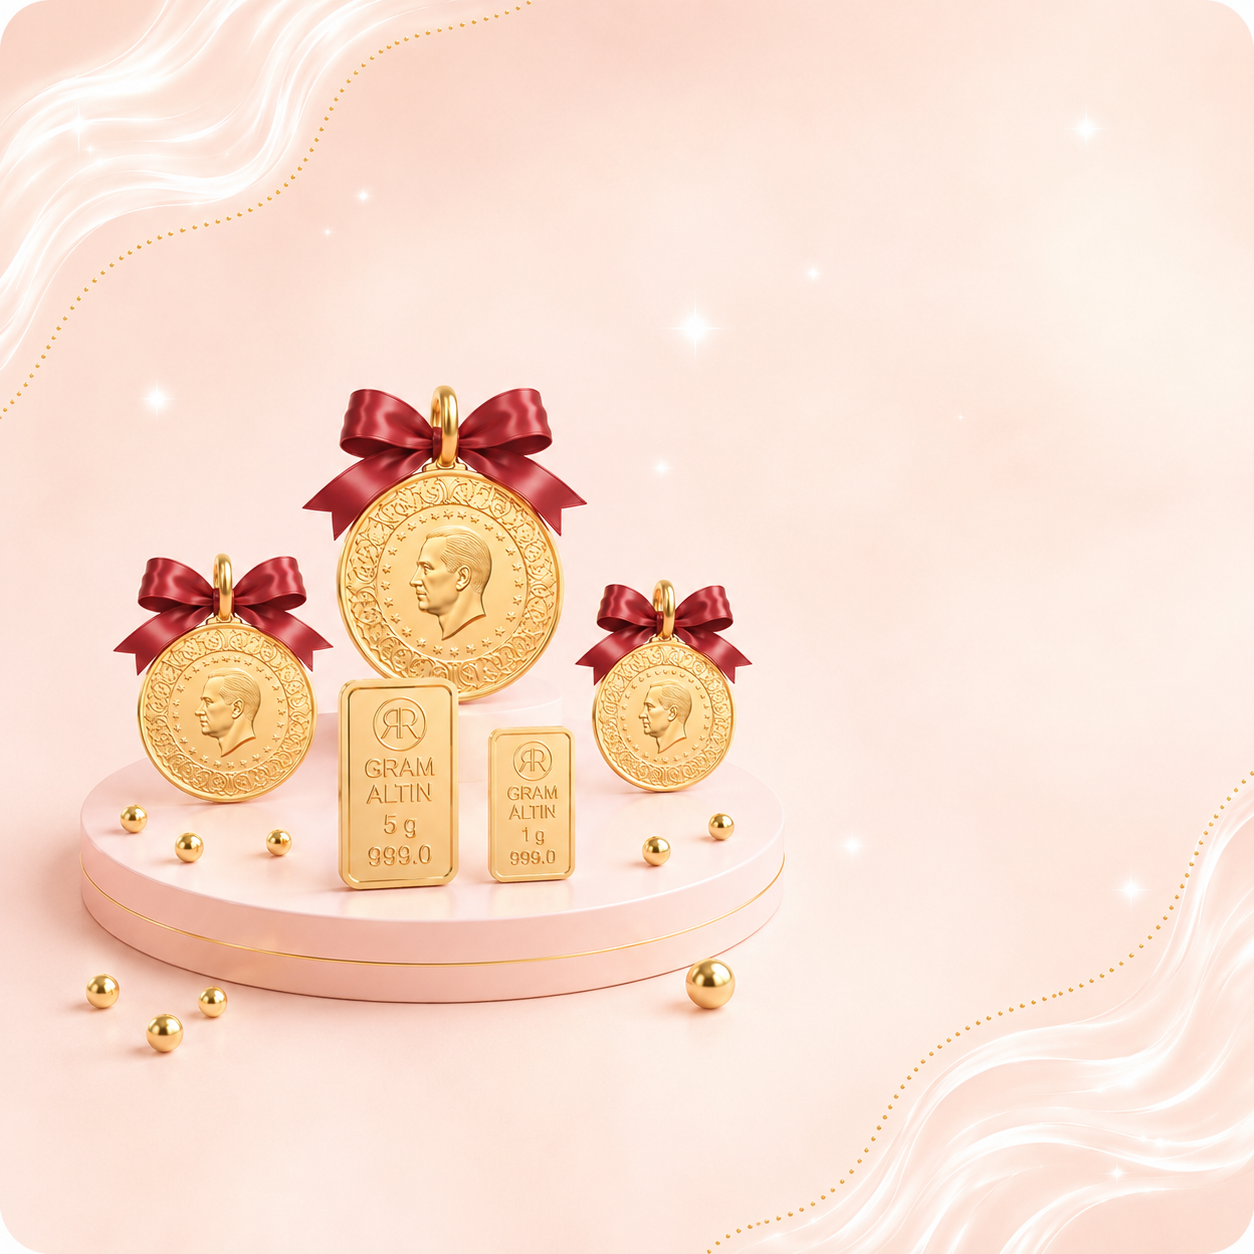
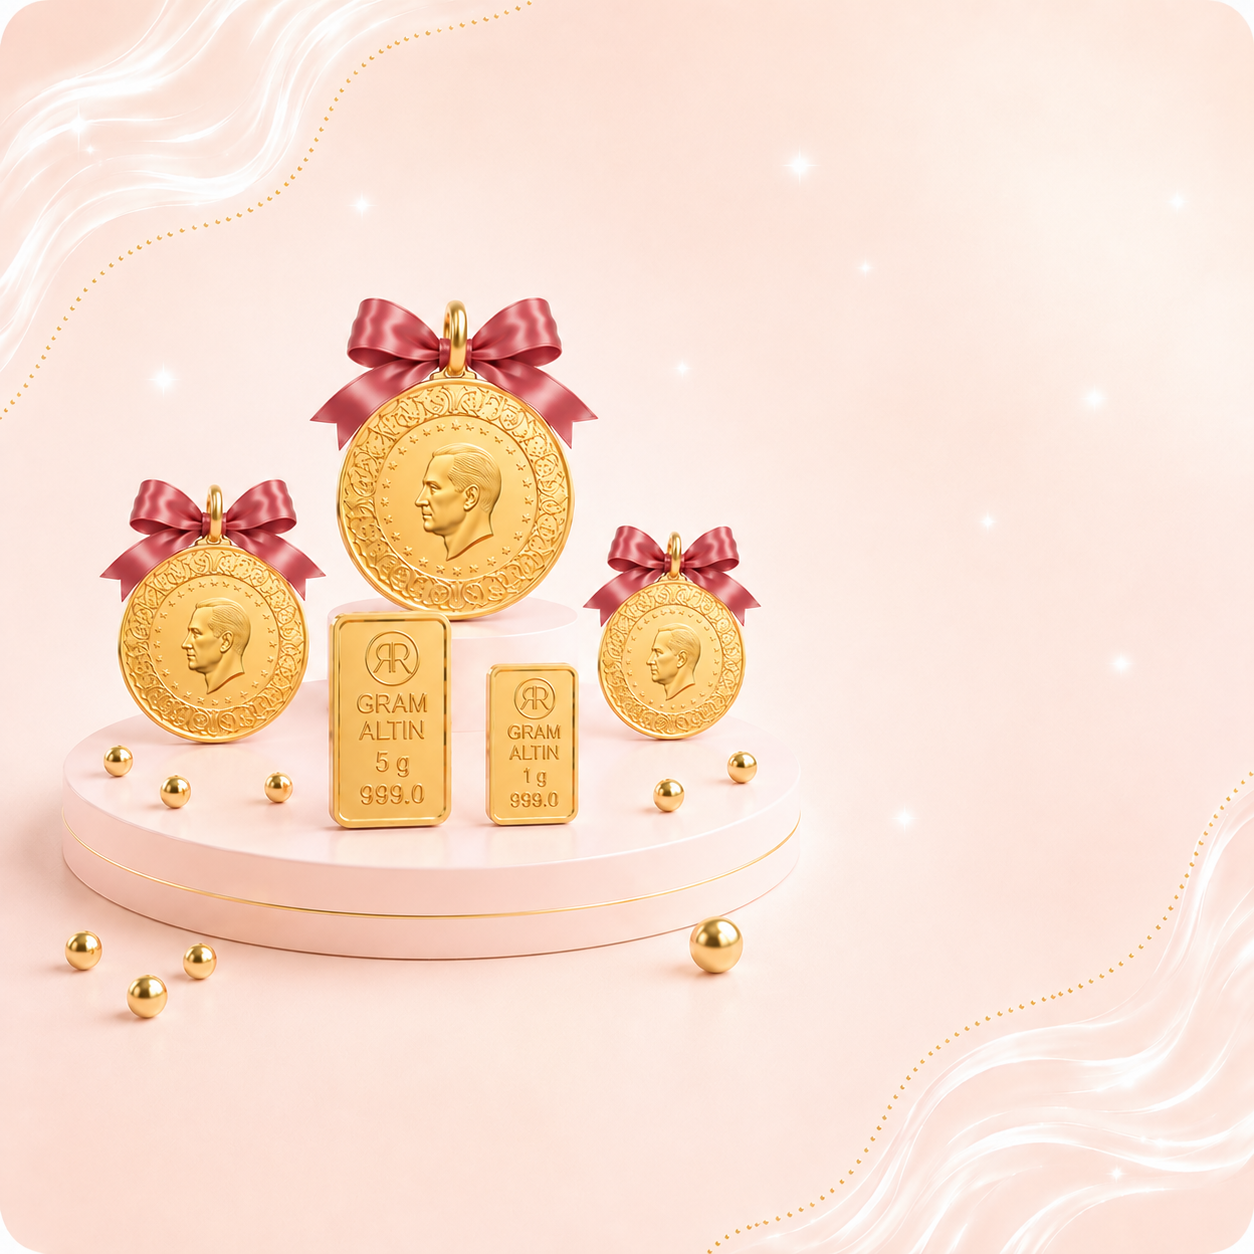
home: swap altın tak images (11/8), update mobile desc, expand 'Tek Tıkla' card
- Desktop image: altın tak masaustu 11
- Mobile image: altın tak mobil 8
- Mobile description: updated line breaks ('sizde uygulama üzerinden
  kolayca takip edebilirsiniz')
- Neden Nikahım 'Tek Tıkla Katılım' → 'Tek Tıkla Katılım & İzleme'
  with dual icon (click + video) and new description covering live
  watch + 14-day recording

diff --git a/app/page.tsx b/app/page.tsx
@@ -643,10 +643,11 @@ export default function Home() {
                 <div className="mt-3 ml-auto" style={{ width: 'clamp(38px, 9vw, 64px)', height: '2px', background: '#C8686E', borderRadius: '2px' }} />
                 <p className="mt-3 leading-relaxed text-[13px] text-right" style={{ color: '#6E5A5A' }}>
                   Davetlileriniz size<br />
-                  doğrudan para gönderir<br />
-                  siz uygulamadan<br />
+                  doğrudan para<br />
+                  gönderir sizde<br />
+                  uygulama üzerinden<br />
                   kolayca takip<br />
-                  edersiniz
+                  edebilirsiniz
                 </p>
               </div>
               {/* Badges — alt tam ortalı */}
@@ -978,7 +979,7 @@ export default function Home() {
           <div className="grid md:grid-cols-2 lg:grid-cols-3 gap-6 md:gap-7">
             {[
               { title: 'Size Özel Yayın Sayfası', desc: 'Sadece size ait bir yayın sayfası! Dilerseniz Canlı Yayını herkese kapalı yapın, sadece davetiyeli kişiler katılsın.', badges: ['%100 Gizlilik', 'Özel Erişim'], icon: <svg className="w-6 h-6" fill="none" stroke="currentColor" viewBox="0 0 24 24"><path strokeLinecap="round" strokeLinejoin="round" strokeWidth={1.8} d="M12 15v2m-6 4h12a2 2 0 002-2v-6a2 2 0 00-2-2H6a2 2 0 00-2 2v6a2 2 0 002 2zm10-10V7a4 4 0 00-8 0v4h8z" /></svg> },
-              { title: 'Tek Tıkla Katılım', desc: 'Davetlileriniz için üyelik gerekmez, uygulama indirmek gerekmez! Link üzerinden tek tıkla katılsın.', badges: ['Üyelik Yok', 'Uygulamasız'], icon: <svg className="w-6 h-6" fill="none" stroke="currentColor" viewBox="0 0 24 24"><path strokeLinecap="round" strokeLinejoin="round" strokeWidth={1.8} d="M15 15l-2 5L9 9l11 4-5 2zm0 0l5 5M7.188 2.239l.777 2.897M5.136 7.965l-2.898-.777M13.95 4.05l-2.122 2.122m-5.657 5.656l-2.12 2.122" /></svg> },
+              { title: 'Tek Tıkla Katılım & İzleme', desc: 'Davetlileriniz için uygulama gerekmez, üyelik gerekmez! Link üzerinden tek tıkla izlemeye başlarlar. Kaçırırlarsa sorun yok! Yayın kaydı 14 gün boyunca aynı linkte video olarak izlenebilir!', badges: ['Üyelik Yok', '14 Gün Kayıt'], dualIcon: true, icon: <svg className="w-6 h-6" fill="none" stroke="currentColor" viewBox="0 0 24 24"><path strokeLinecap="round" strokeLinejoin="round" strokeWidth={1.8} d="M15 15l-2 5L9 9l11 4-5 2zm0 0l5 5M7.188 2.239l.777 2.897M5.136 7.965l-2.898-.777M13.95 4.05l-2.122 2.122m-5.657 5.656l-2.12 2.122" /></svg>, icon2: <svg className="w-6 h-6" fill="none" stroke="currentColor" viewBox="0 0 24 24"><path strokeLinecap="round" strokeLinejoin="round" strokeWidth={1.8} d="M15 10l4.553-2.276A1 1 0 0121 8.618v6.764a1 1 0 01-1.447.894L15 14M5 18h8a2 2 0 002-2V8a2 2 0 00-2-2H5a2 2 0 00-2 2v8a2 2 0 002 2z" /></svg> },
               { title: 'Online Altın Takma', desc: 'Havale/EFT veya Crypto ile altın takma! Ödemeler direkt sizin banka hesabınıza, aracı ve komisyon yok.', badges: ['Komisyonsuz', 'Aracı yok', 'Hızlı'], icon: <svg className="w-6 h-6" fill="none" stroke="currentColor" viewBox="0 0 24 24"><path strokeLinecap="round" strokeLinejoin="round" strokeWidth={1.8} d="M21 11.25v8.25a1.5 1.5 0 01-1.5 1.5H5.25a1.5 1.5 0 01-1.5-1.5v-8.25M12 4.875A2.625 2.625 0 109.375 7.5H12m0-2.625V7.5m0-2.625A2.625 2.625 0 1114.625 7.5H12m0 0V21m-8.625-9.75h18c.621 0 1.125-.504 1.125-1.125v-1.5c0-.621-.504-1.125-1.125-1.125h-18c-.621 0-1.125.504-1.125 1.125v1.5c0 .621.504 1.125 1.125 1.125z" /></svg> },
               { title: 'Video ve Sesli Tebrik', desc: 'Davetlileriniz 30 saniyelik video veya 60 saniyelik sesli tebrik mesajı göndersin.', badges: ['30 sn Video', '60 sn Ses'], dualIcon: true, icon: <svg className="w-6 h-6" fill="none" stroke="currentColor" viewBox="0 0 24 24"><path strokeLinecap="round" strokeLinejoin="round" strokeWidth={1.8} d="M15 10l4.553-2.276A1 1 0 0121 8.618v6.764a1 1 0 01-1.447.894L15 14M5 18h8a2 2 0 002-2V8a2 2 0 00-2-2H5a2 2 0 00-2 2v8a2 2 0 002 2z" /></svg>, icon2: <svg className="w-6 h-6" fill="none" stroke="currentColor" viewBox="0 0 24 24"><path strokeLinecap="round" strokeLinejoin="round" strokeWidth={1.8} d="M19 11a7 7 0 01-7 7m0 0a7 7 0 01-7-7m7 7v4m0 0H8m4 0h4m-4-8a3 3 0 01-3-3V5a3 3 0 116 0v6a3 3 0 01-3 3z" /></svg> },
               { title: 'Fotoğraf Albümü', desc: 'Siz ya da Misafirleriniz gün boyunca çekilen tüm fotoğrafları yükleyin, tüm anılar tek albümde toplansın.', badges: ['Birlikte Yükle', 'Tek Albüm', 'Kolay İndir'], icon: <svg className="w-6 h-6" fill="none" stroke="currentColor" viewBox="0 0 24 24"><path strokeLinecap="round" strokeLinejoin="round" strokeWidth={1.8} d="M4 16l4.586-4.586a2 2 0 012.828 0L16 16m-2-2l1.586-1.586a2 2 0 012.828 0L20 14m-6-6h.01M6 20h12a2 2 0 002-2V6a2 2 0 00-2-2H6a2 2 0 00-2 2v12a2 2 0 002 2z" /></svg> },
